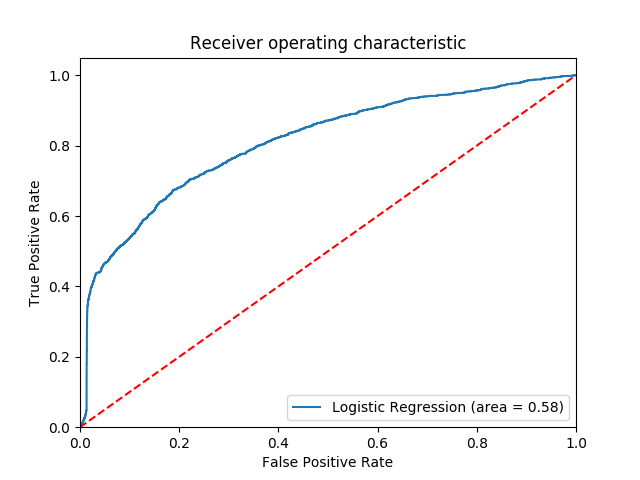
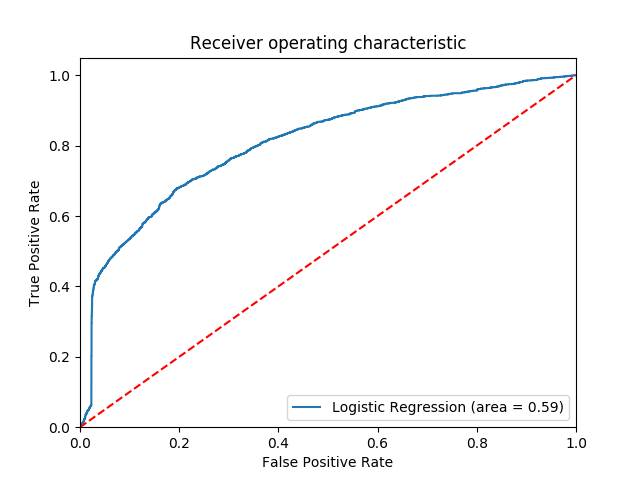
Final Commit, hyperparameters tunned

diff --git a/Models/LROverSampling.py b/Models/LROverSampling.py
@@ -4,7 +4,7 @@ from sklearn.metrics import classification_report
 from sklearn.metrics import roc_auc_score
 from sklearn.metrics import roc_curve
 from Models.DataSet import DataSet
-
+from sklearn.externals import joblib
 
 class LearningRateOverSampling:
 
@@ -12,10 +12,15 @@ class LearningRateOverSampling:
         os_data_X, os_data_y, X_test, y_test = DataSet.getParticionedDataSetOverSampled()
 
         # Creating a logisitc regression model
-        log_model = LogisticRegression()
+        # log_model = LogisticRegression()
+        log_model = LogisticRegression(C=0.1, solver='liblinear')
         log_model.fit(os_data_X, os_data_y.values.ravel())
         y_pred = log_model.predict(X_test)
         print("The classification report of LrOverSampling is: \n", classification_report(y_test, y_pred))
+
+        # Save the model to re use later
+        filename = '../LROverSampling.sav'
+        joblib.dump(log_model, filename)
 
         # Draw the ROC curve to check how much the model is capable of distinguishing between classes
         logit_roc_auc = roc_auc_score(y_test, log_model.predict(X_test))

diff --git a/Models/SVCBasic.py b/Models/SVCBasic.py
@@ -6,7 +6,7 @@ from sklearn.metrics import roc_auc_score
 from sklearn.metrics import roc_curve
 
 from Models.DataSet import DataSet
-
+from sklearn.externals import joblib
 
 class SupportVectorClassifier:
 
@@ -17,13 +17,17 @@ class SupportVectorClassifier:
 
         os_data_X, os_data_y, X_test, y_test = DataSet.getParticionedDataSetOverSampled()
 
-        svclassifier = SVC(kernel='linear', C=1)
-        svclassifier.fit(os_data_X, os_data_y.values.ravel())
-        y_pred = svclassifier.predict(X_test)
+        svc_classifier = SVC(kernel='linear', C=1)
+        svc_classifier.fit(os_data_X, os_data_y.values.ravel())
+        y_pred = svc_classifier.predict(X_test)
         print(confusion_matrix(y_test, y_pred))
         print(classification_report(y_test, y_pred))
 
         print("\nFinish time: " + str(datetime.now()))
+
+        # Save the model to re use later
+        filename = '../LROverSampling.sav'
+        joblib.dump(svc_classifier, filename)
 
         """
         # Draw the ROC curve to check how much the model is capable of distinguishing between classes

diff --git a/Models/LRBasic.py b/Models/LRBasic.py
@@ -4,6 +4,7 @@ from sklearn.metrics import classification_report
 from sklearn.metrics import roc_auc_score
 from sklearn.metrics import roc_curve
 from Models.DataSet import DataSet
+from sklearn.externals import joblib
 
 
 class LearningRateBasic:
@@ -13,10 +14,15 @@ class LearningRateBasic:
         X_train, X_test, y_train, y_test = DataSet.getParticionedDataSet()
 
         # Creating a logisitc regression model
-        log_model = LogisticRegression()
+        #log_model = LogisticRegression()
+        log_model = LogisticRegression(C=0.1, solver='saga')
         log_model.fit(X_train, y_train)
         y_pred = log_model.predict(X_test)
         print("The classification report of LRBASIC is: \n", classification_report(y_test, y_pred))
+
+        # Save the model to re use later
+        filename = '../LRBasicModel.sav'
+        joblib.dump(log_model, filename)
 
         # Draw the ROC curve to check how much the model is capable of distinguishing between classes
         logit_roc_auc = roc_auc_score(y_test, log_model.predict(X_test))
